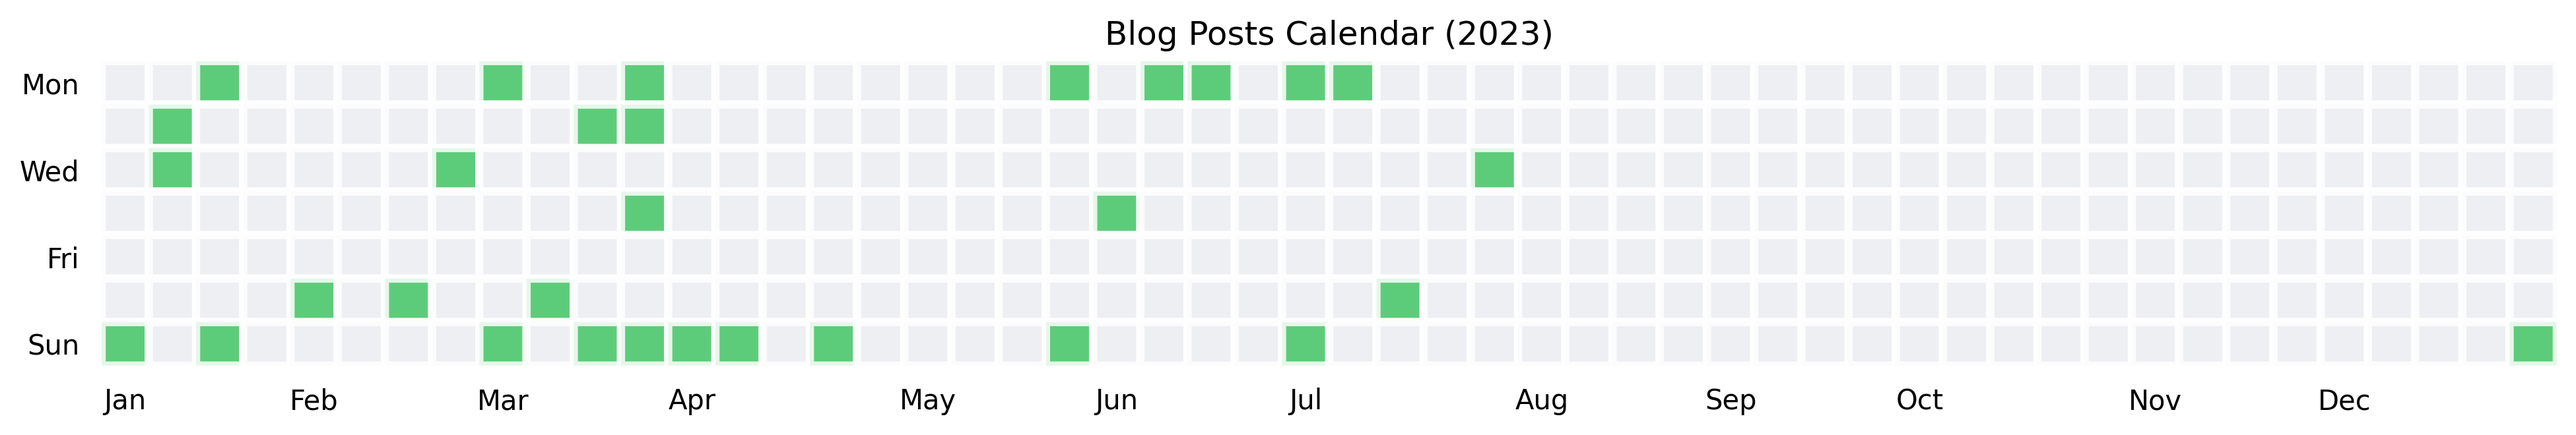
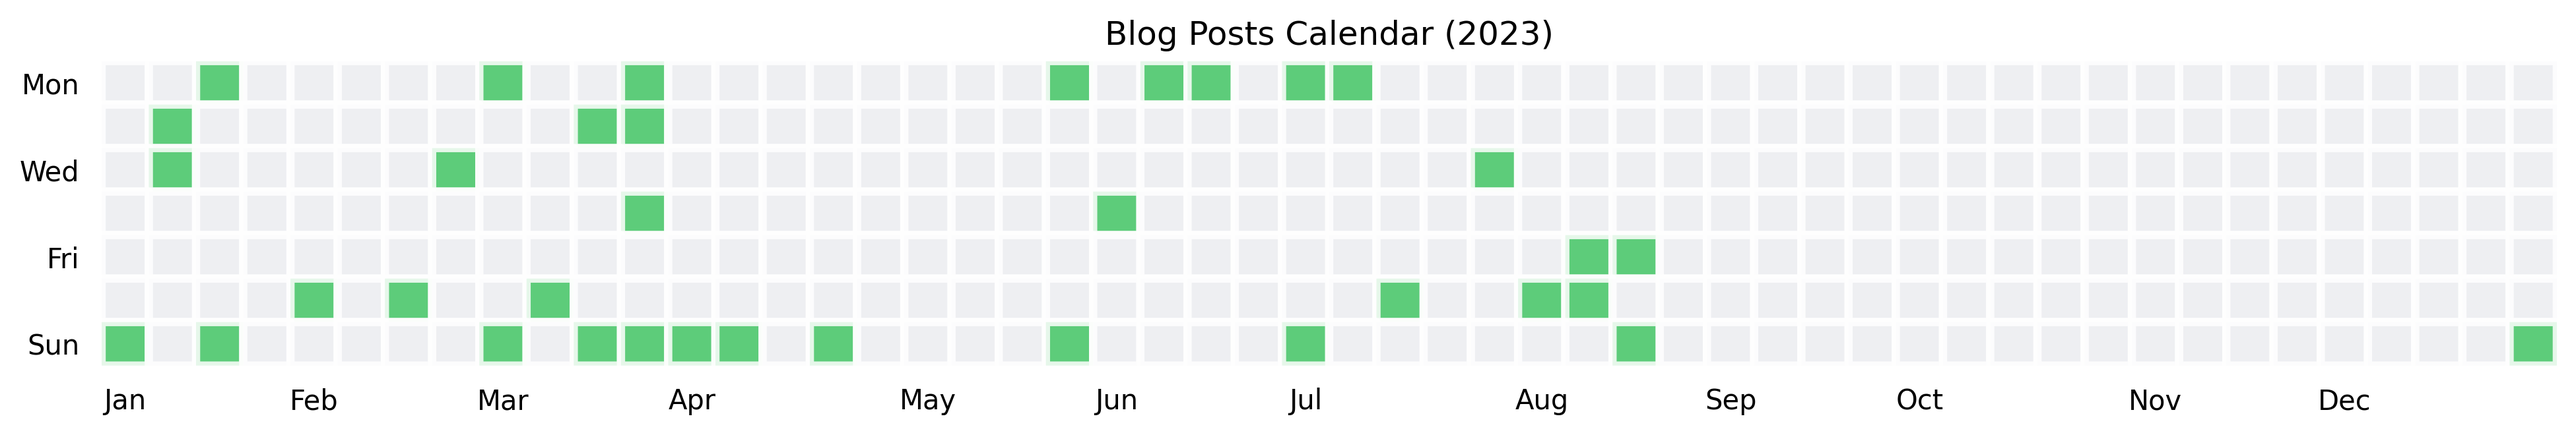
updated blog post calendar and added latest videos

Changed region(s): [[0.589, 0.5455, 0.651, 0.8485]]

diff --git a/web/_posts/2023-08-20-bluetooth-remote-pcb.md b/web/_posts/2023-08-20-bluetooth-remote-pcb.md
@@ -1,0 +1,83 @@
+---
+layout: blog
+title: Bluetooth Remote Control Custom PCB 
+description: Designing a custom Remote Control PCB
+short_title: Bluetooth Custom PCB
+short_description: Designing a custom Remote Control PCB
+date: 2023-08-20
+author: Kevin McAleer
+excerpt: >-
+    This article dives deep into an exciting project: a custom-made game controller using the Raspberry Pi Pico W.
+cover: /assets/img/blog/pcb/pcb.png
+tags: 
+ - MicroPython
+ - PCB
+ - Bluetooth
+ - Remote Control
+---
+
+## Building a Custom Raspberry Pi Pico W Game Controller for Robotics
+
+The landscape of hobbyist electronics and robotics has witnessed an explosion of innovation over the past few years. Leading this charge is the Raspberry Pi Foundation, which, with the introduction of the Raspberry Pi Pico, added another feather to its cap. This article dives deep into an exciting project: a custom-made game controller using the Raspberry Pi Pico W. Read on to know more about this enticing journey from idea to execution.
+
+---
+
+## 1. The Vision
+
+Our goal was to create a game controller that not only resembled the ergonomic design of popular controllers, like that of Xbox, but was also capable of seamlessly connecting to and controlling robots. From the outset, there were a few must-haves:
+
+- `Ergonomics`: The design had to be user-friendly and familiar.
+- `Connectivity`: It needed Bluetooth capabilities for wireless control.
+- `Power Efficiency`: A JST-PH connector to support LiPo batteries, ensuring longevity.
+
+---
+
+## 2. Key Components
+
+- **Raspberry Pi Pico W**: The brain of our operation. This microcontroller, a wireless variant of the popular Raspberry Pi Pico, has Bluetooth functionality integrated. Its compatibility with MicroPython makes it apt for this task.
+
+- **Controller Buttons**: Two sets of buttons were incorporated. One set for movement (`up`, `down`, `left`, `right`) and the other for action commands (`A`, `B`, `X`, and `Y`). These momentary switch tactile buttons provide tactile feedback, ensuring a responsive gaming experience.
+
+- **JST-PH Power Connector**: For flexibility in battery choices and ease of charging.
+
+---
+
+## 3. Design & Assembly
+
+The PCB layout was designed mimicking the curves and edges of well-known game controllers. Components were strategically placed to balance weight, aesthetics, and functionality. The Raspberry Pi Pico W was situated centrally, acting as the heart of the device, with button arrays on either side. 
+
+To learn more about the PCB design behind this project, watch this video:
+
+{% include youtubeplayer.html id="H6CNmnT6kGo" %}
+
+---
+
+## 4. Power Management
+
+LiPo batteries were the choice for this project, owing to their energy density and rechargeable nature. Coupled with the JST-PH connector, it ensures that the controller remains powered for extensive gaming and robot control sessions. It's always recommended to integrate a charging circuit and protection if using LiPo batteries to maintain safety.
+
+---
+
+## 5. Software and Connectivity
+
+MicroPython was the obvious choice for programming the Raspberry Pi Pico W. Not only is it beginner-friendly, but it also provides a rich library for Bluetooth connectivity.
+
+A simple script was written to detect button presses and translate them into Bluetooth signals. For instance, pressing the "up" button would send a signal to move the robot forward. With MicroPython, the task was not only straightforward but also modifiable for various robotic applications.
+
+The MicroPython code is available here:
+
+<script src="https://gist.github.com/kevinmcaleer/cb8026c14ecb2b5a22fba065eb11af8c.js"></script>
+
+---
+
+## 6. Applications
+
+While initially envisioned for robotic control, this custom controller's applications aren't limited. Think of DIY game consoles, home automation, or even controlling drones. The possibilities are endless.
+
+## 7. Final Thoughts
+
+Building a custom game controller powered by Raspberry Pi Pico W has been a rewarding experience. It's projects like these that highlight the versatility of Raspberry Pi products and the ever-expanding potential of hobbyist electronics.
+
+For those interested in embarking on similar adventures, remember: the beauty lies not just in the final product but the process itself. Happy building!
+
+---

diff --git a/web/_posts/2023-08-18-micropython-ota.md b/web/_posts/2023-08-18-micropython-ota.md
@@ -4,7 +4,7 @@ title: Over the Air updates with MicroPython
 description: "Automatically update code on your embedded devices"
 short_title: OTA with MicroPython 
 short_description: "Automatically update code on your embedded devices"
-date: 2023-08-19
+date: 2023-08-18
 author: Kevin McAleer
 excerpt: >-
     Over-The-Air refers to the method of transmitting data, typically a software update, across a network without any wired connection

diff --git a/web/_posts/_2023-02-04-bubo-2t2.md b/web/_posts/_2023-02-04-bubo-2t2.md
@@ -4,7 +4,7 @@ title: Bubo-2T2
 description: Steampunk companion bot Assembly with Bubo tooty two
 short_title: Bubo-2T2
 short_description: Steampunk companion bot Assembly
-date: 23-05-01
+date: 2023-05-01
 author: Kevin McAleer
 excerpt: How to build your own Bubo-2t robot
 cover: /assets/img/blog/bubo/bubo_cover.jpg
